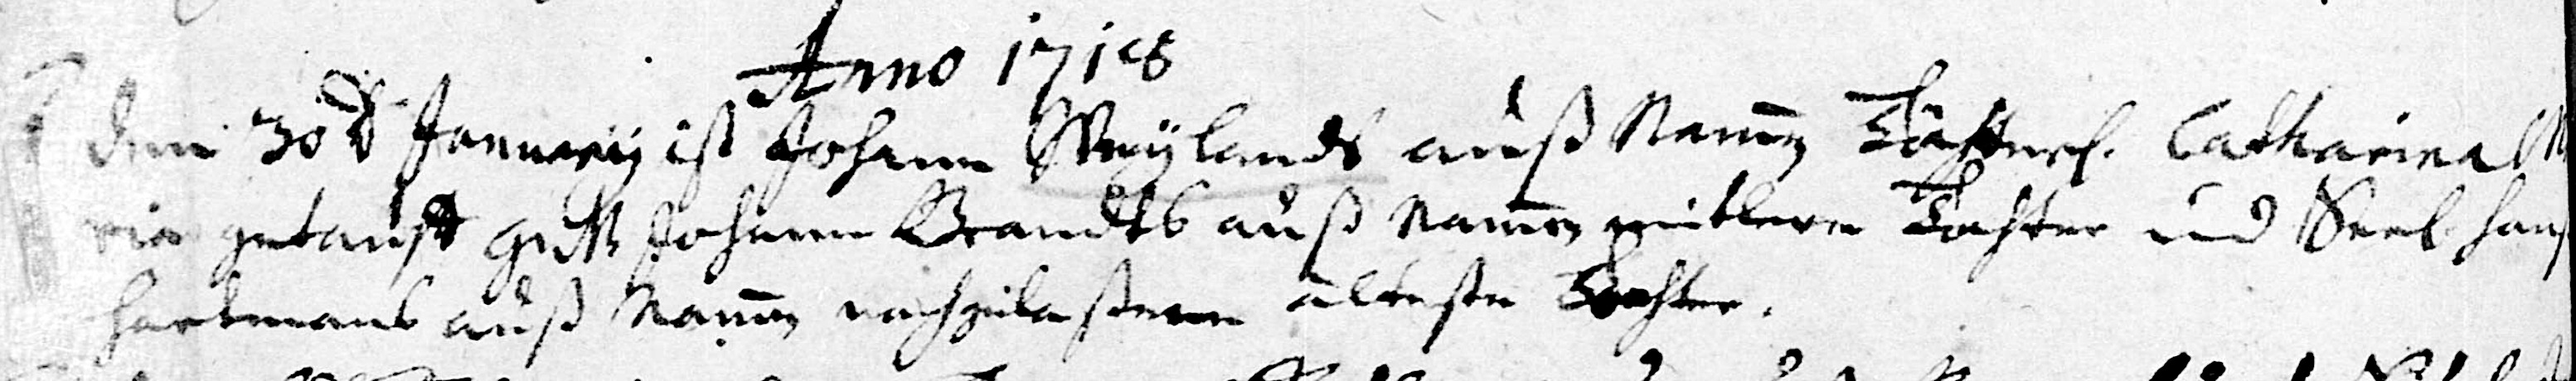
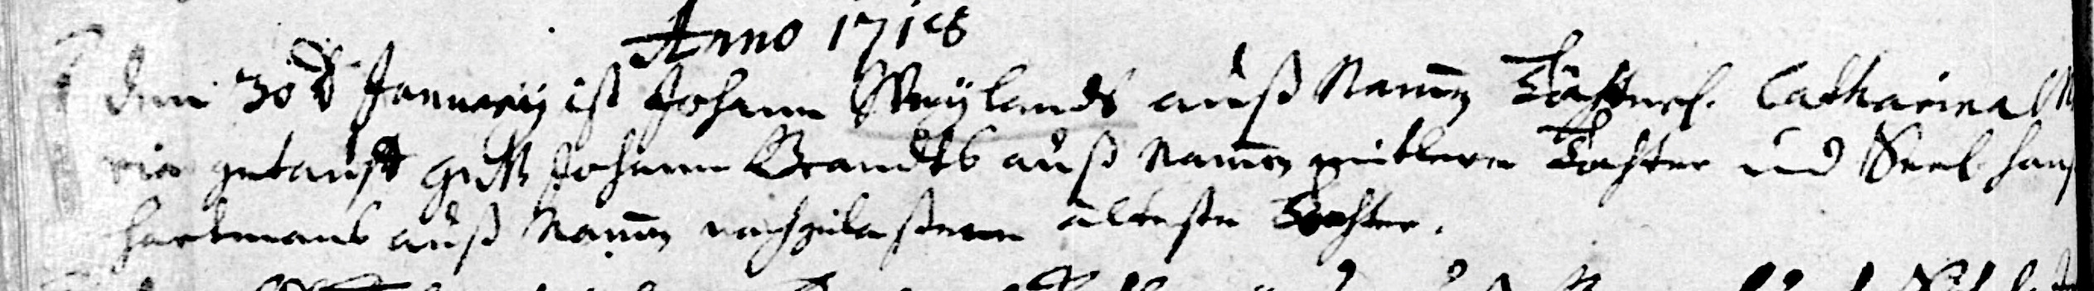
Update files

Changed region(s): [[0.0, 0.0, 1.0, 1.0], [0.6793, 0.8547, 0.772, 1.0]]

diff --git a/petzen/PET-B-1717a.md b/petzen/PET-B-1717a.md
@@ -1,0 +1,57 @@
+# 1717 Catharina Maria Weÿlandt of Nammen Baptized
+
+## Family and Other Facts
+
+```{list-table}
+:header-rows: 1
+
+* - Father
+  - Residence
+  - Son
+  - Sponsor/Relationship
+* - 
+  - 
+  - 
+  - 
+```
+
+## Record
+
+The baptism of Catharina Maria Weÿlandt of Nammen is on {ref}`image 123 <PET-B-1717a>`
+of the Petzen church register *Verzeichnis der Getaufen und Konfirmierten
+1641-1784*.
+
+```{figure} images/petzen-band1a-img125.jpg
+:class: image-override
+```
+
+## Transliteration
+
+```{note}
+**Seel** is an abbreviation for **seelig**—blessed, late,
+deceased. 
+```
+
+```{div} doc-text
+1. den 30t Januarÿ ist Johann Weÿlandt aus Nammen Töchterl. Catharina
+   Maria getauft Gev. Johann Brandts aus Nammen [mitlere?] Tochter und
+   Seel. Hans Hartmans aus Nammen nachgelassene älteste Tochter.
+```
+
+## Translation
+
+```{div} doc-text
+1. On January 30th, Catharina Maria, the little daughter of Johann Weÿlandt of Nammen,
+   was baptized. Sponsors were the [middle?] daughter of Johann Brandt from
+   Nammen [and] the eldest surviving daughter of the late Hans Harman of Nammen.
+```
+
+## Citation
+
+(PET-B-1717a)=
+
+"Archion Protestant Kirchenbücher Portal", database
+with images, *Archion* (<https://www.archion.de/p/10fb58b717/> : 12 August 
+2026), path: Niedersachsen > Niedersächsisches Landesarchiv > Kirchenbücher
+der Evangelisch-Lutherischen Landeskirche Schaumburg-Lippe > Petzen >
+Verzeichnis der Getauften und Konfirmierten 1641-1784, image 125 of 322

diff --git a/petzen/PET-B-1715a.md b/petzen/PET-B-1715a.md
@@ -17,7 +17,7 @@
 
 ## Record
 
-The baptism of from is on {ref}`image 123 <PET-B-1715a>`
+The baptism of Wilhelm Weÿlandt of Berenbusch is on {ref}`image 123 <PET-B-1715a>`
 of the Petzen church register *Verzeichnis der Getaufen und Konfirmierten
 1641-1784*.
 
